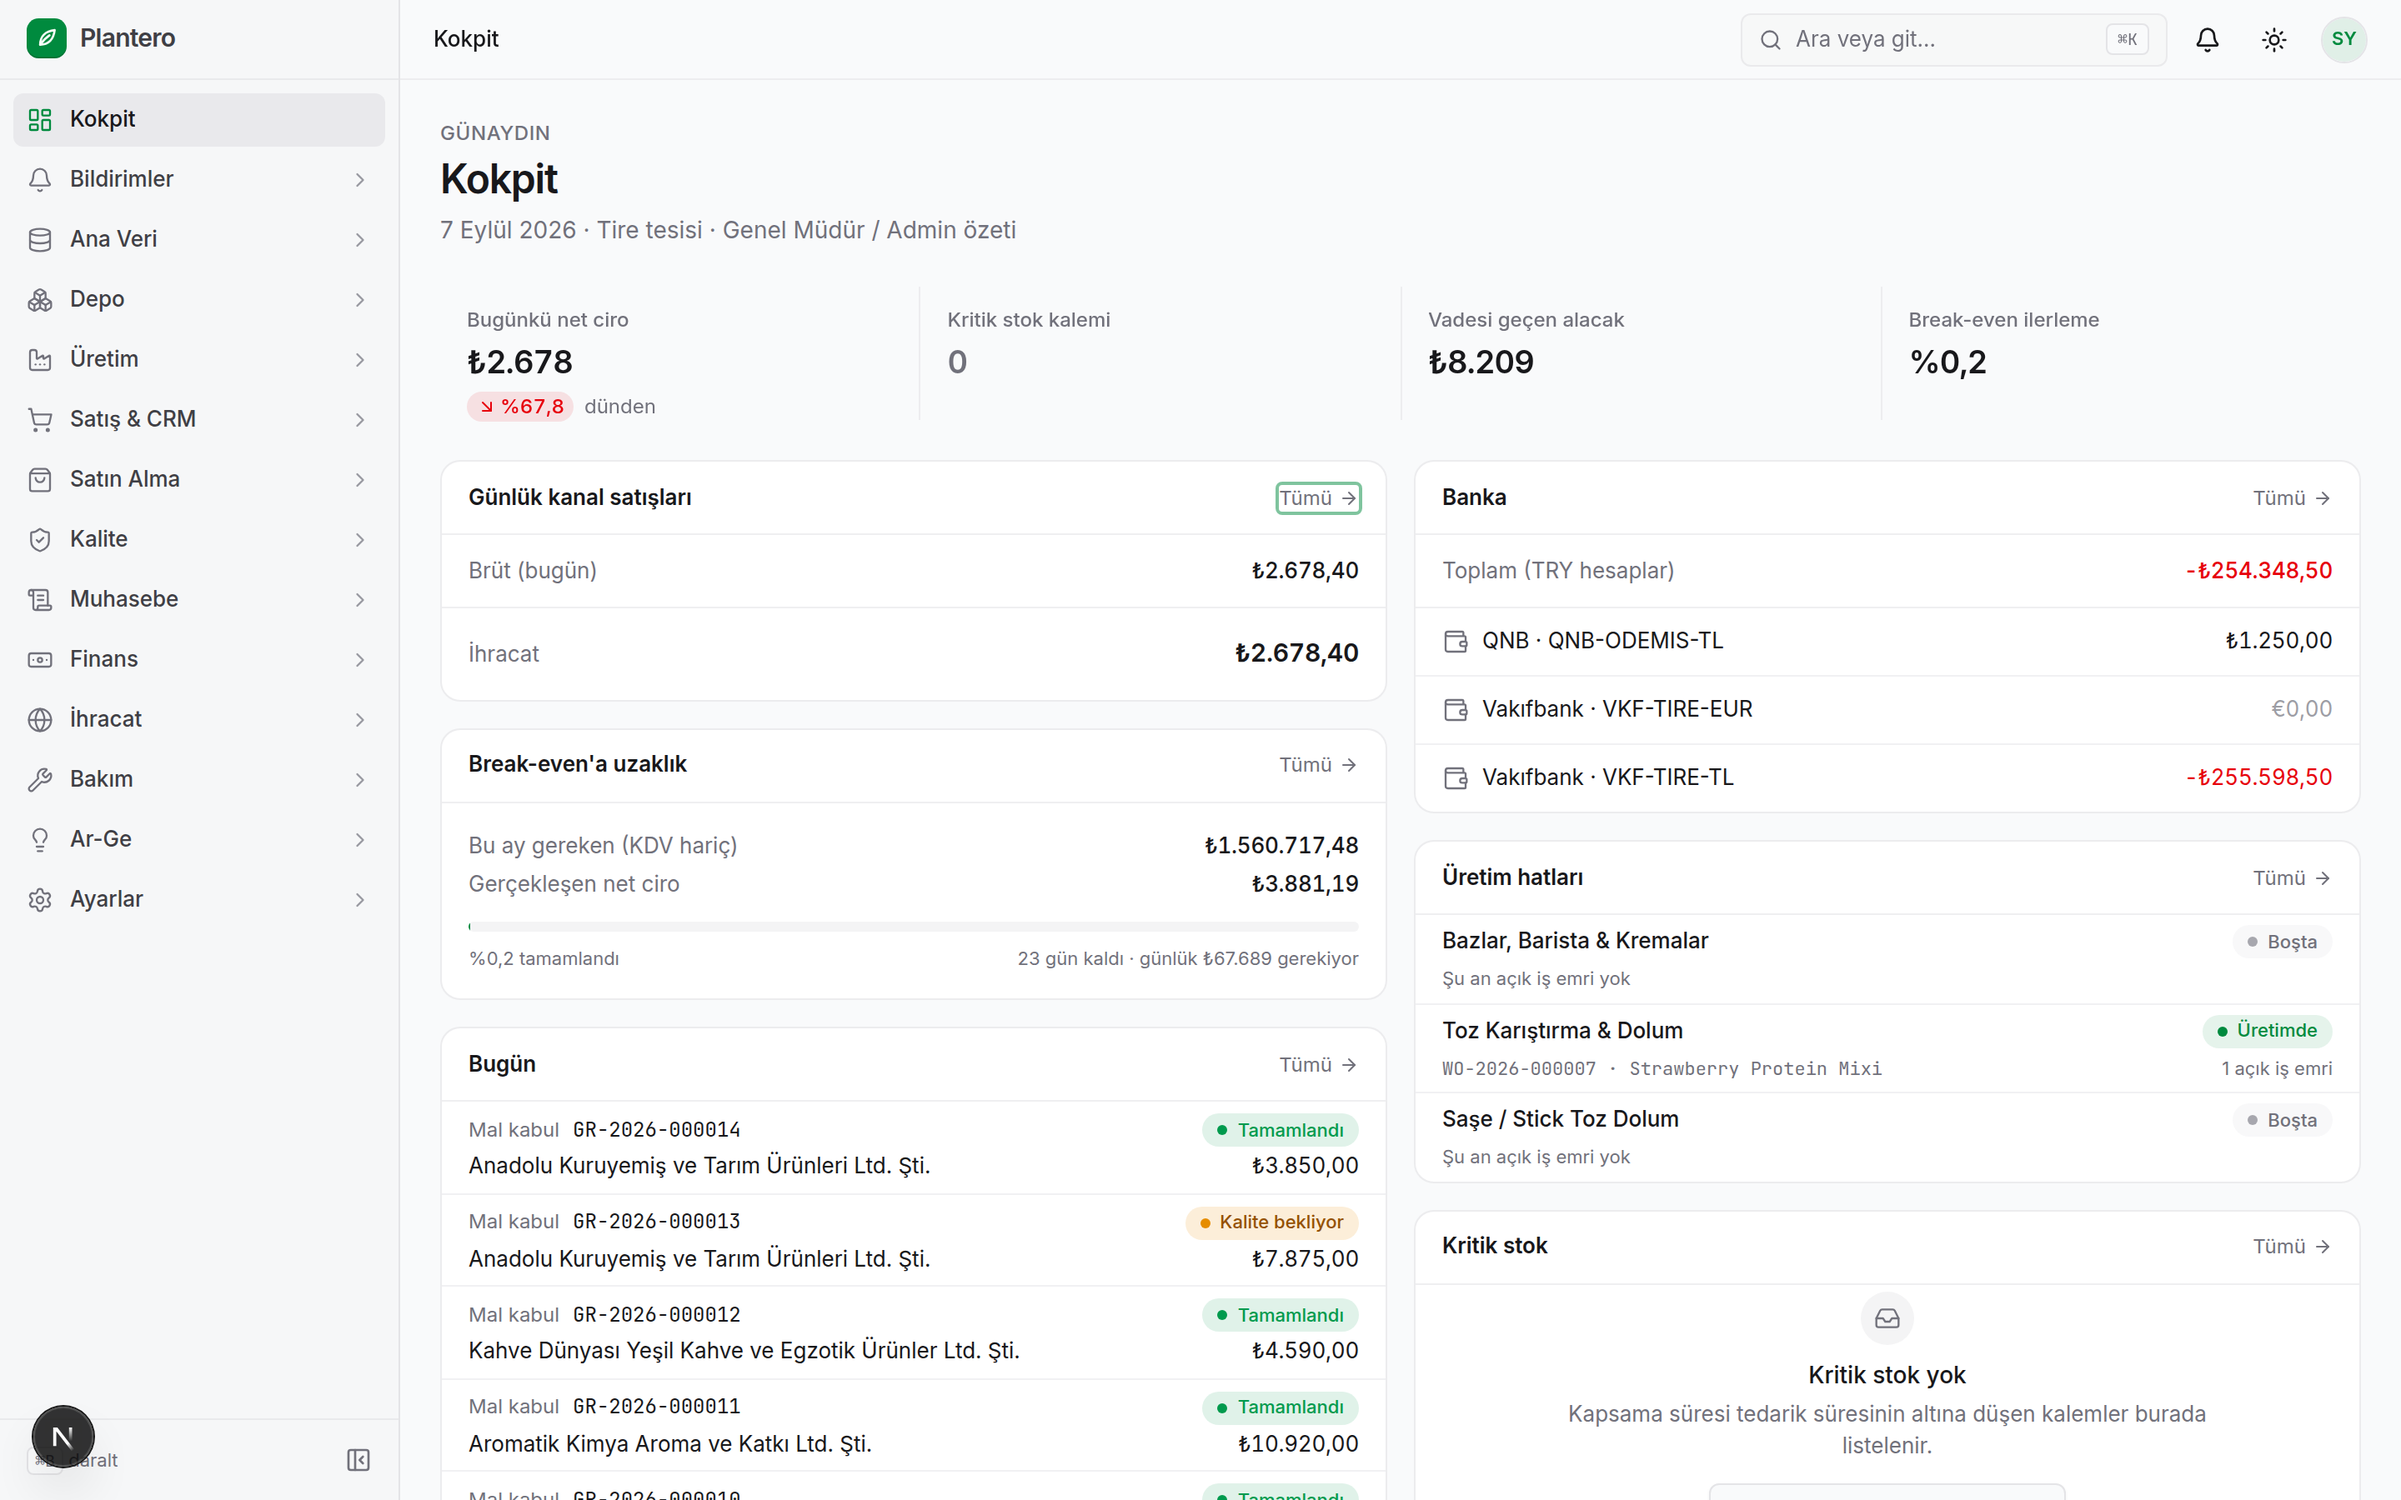
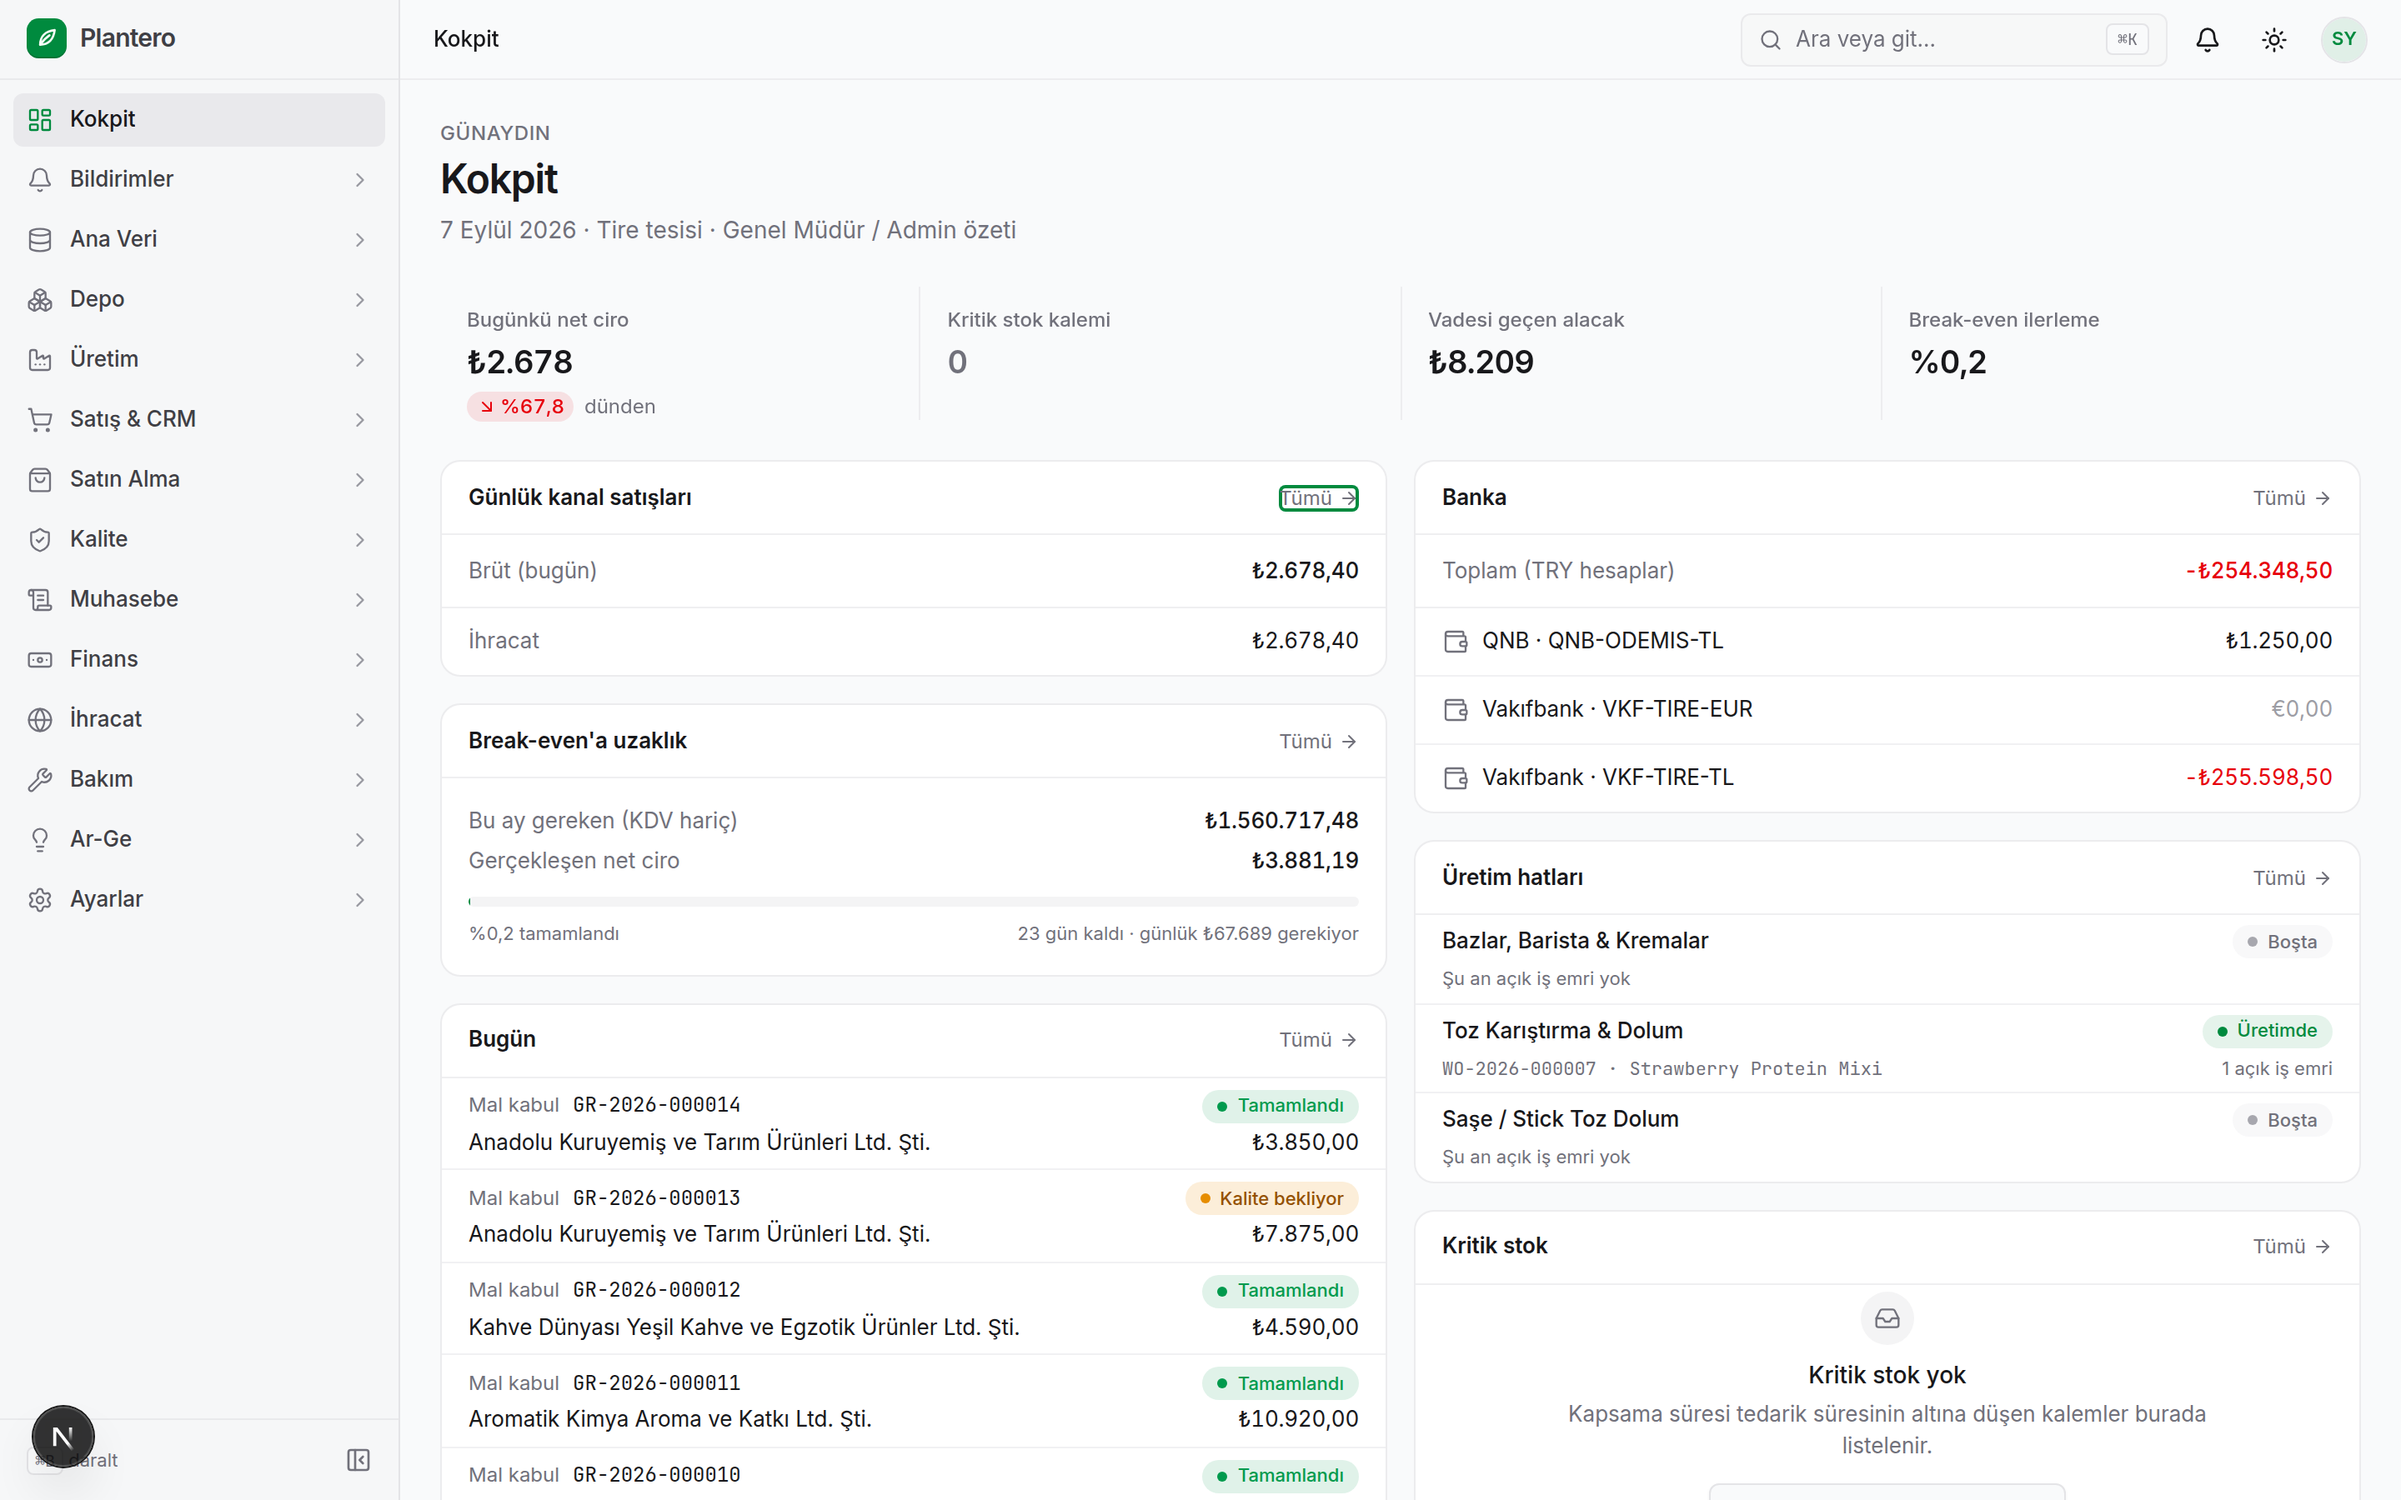
fix(kokpit): Tur 10 puan kartı — P0 recall lot kimliği + P1 kanal satırı kademesi
- packages/core/src/lots/trace.ts, packages/core/src/quality/recall.ts (önceki WIP
  commit'lerde zaten kaydedilmiş, bu commit ile birlikte tur-10 fix seti tamamlanıyor):
  I59 kök neden — RecallImpact['deliveries'] artık gerçekten sevk edilen lotun id'sini
  (`lotId`) taşıyor; initiate() 'delivered' recall_items satırlarını artık bununla
  yazıyor (eskiden sabit impact.lots[0], neredeyse her zaman kök hammadde lotu).
  Regresyon testi: tek hammadde lotundan 2 iş emriyle üretilen 2 mamul lotu 2 ayrı
  irsaliyeyle sevk edilince her recall_items satırı kendi gerçek lotunu taşıyor.

- apps/web/src/modules/kokpit/components/channel-bars.tsx, gm-dashboard.tsx,
  sales-dashboard.tsx, shared.tsx: "Günlük kanal satışları" kartında tek-kanal dalı
  artık çok-kanallı dalla AYNI kademeyi (paylaşılan Row, 13px/400, 40-44px bant)
  kullanıyor — eskiden 15px/600 ile özet satırından (13px/500) daha yüksek sesle
  basılıyordu. p-4 sarmalayıcılar (gm-dashboard + sales-dashboard) kaldırıldı,
  ChannelBars kendi dolgusunu taşıyor. Ayrıca kokpit'in kendi shared.tsx'indeki
  (Section "Tümü" bağlantısı, StatStrip hücresi) odak halkası dili RowLink ile
  hizalandı (18 outline durağından 14'ü ring'e geçti; kalan 4'ü kpi-card.tsx'in
  strip sarmalayıcısı — apps/web/src/components, ortak bileşen, sharedComponentRequests'te).

- artifacts/critic/kokpit.json: kokpit-channel-single-tier-10 kapatıldı (measureAfter
[…]

diff --git a/apps/web/src/modules/kokpit/components/channel-bars.tsx b/apps/web/src/modules/kokpit/components/channel-bars.tsx
@@ -1,5 +1,5 @@
 import { formatMoney } from '@/lib/format';
-import { RankBar } from './shared';
+import { RankBar, Row } from './shared';
 
 /**
  * "Bugünkü kanal satışları" çubukları — tek ölçü (net ciro) kanal bazında sıralanmış yatay çubuklar.
@@ -24,6 +24,17 @@ import { RankBar } from './shared';
  * Kural yalnızca AYNI sütun içindir — KPI şeridindeki (0 ondalık) büyük rakamla bu listenin (2
  * ondalık) arasındaki kademe ayrımı KORUNUR, çünkü onlar ayrı sütunlar/bileşenlerdir. Her iki dal da
  * `digits: 2` kullanır.
+ *
+ * Kök neden (Tur 10 P1 kokpit-channel-single-tier-10, kriter 1): tek-kanal dalı `text-[15px]
+ * font-semibold` (15px/600) basıyordu — AYNI sağ hizalı para sütunundaki özet satır ("Brüt (bugün)",
+ * gm-dashboard.tsx) `13px/500`. Bugünkü veri bu iki değeri BİREBİR eşit kılınca (tek kanal → brüt =
+ * o kanalın net'i) kırılım özetten DAHA YÜKSEK SESLE basılmış oluyordu — hiyerarşi VERİYE göre
+ * tersine dönüyordu. Tek kanal dalı artık çok-kanallı dalla AYNI kademeyi (paylaşılan `Row`, 13px,
+ * font-weight 400 — normal gövde ağırlığı, `font-semibold`/`font-medium` YOK) kullanır: bölüm içi
+ * para düğümleri artık {(13,500 özet), (13,400 kırılım)} kümesine sığar, kırılım hiçbir zaman
+ * özetten büyük/kalın olamaz. `Row` (shared.tsx) aynı zamanda satır bandını da (masaüstü 40px,
+ * mobil ≥44px `max-sm:min-h-11`) garanti eder — üst bileşendeki (`gm-dashboard.tsx`) `p-4` sarmalayıcı
+ * bu bandı bozduğu için kaldırılıp bu bileşenin KENDİ dolgusuna (Row / aşağıdaki `<ul>`) bırakıldı.
  */
 export function ChannelBars({ rows }: { rows: { name: string; net: number }[] }) {
   if (!rows.length) return null;
@@ -35,18 +46,18 @@ export function ChannelBars({ rows }: { rows: { name: string; net: number }[] })
   if (sorted.length === 1) {
     const only = sorted[0]!;
     return (
-      <div className="flex items-baseline justify-between">
-        {/* Kök neden (Tur 2 P2 kokpit-14px-tier-01): tek-kanal etiketi `text-sm` (14px) taşıyordu —
-            çok-kanallı halde AYNI etiket 12px (bkz. aşağıdaki liste `text-xs`); tek satırlık gövde
-            metni için `text-[13px]` (kokpit'in genel gövde kademesi) kullanılır. */}
-        <span className="text-[13px] text-muted-foreground">{only.name}</span>
-        <span className="num text-[15px] font-semibold tabular-nums">{formatMoney(only.net, 'TRY', { digits: 2 })}</span>
-      </div>
+      // Kök neden (Tur 2 P2 kokpit-14px-tier-01, üstteki Tur 10 P1 notuyla güncellendi): tek-kanal
+      // satırı artık çok-kanallı listeyle AYNI paylaşılan `Row` anatomisini (13px, normal ağırlık,
+      // 40/44px bant) kullanır — ayrı bir `flex items-baseline` düzeni değil.
+      <Row>
+        <span className="min-w-0 flex-1 truncate text-muted-foreground">{only.name}</span>
+        <span className="num shrink-0 tabular-nums">{formatMoney(only.net, 'TRY', { digits: 2 })}</span>
+      </Row>
     );
   }
 
   return (
-    <ul className="space-y-2.5">
+    <ul className="space-y-2.5 px-4 py-3">
       {sorted.map((r, i) => (
         <li key={r.name} className="flex items-center gap-3">
           <span className="w-24 shrink-0 truncate text-xs text-muted-foreground">{r.name}</span>

diff --git a/apps/web/src/modules/kokpit/components/shared.tsx b/apps/web/src/modules/kokpit/components/shared.tsx
@@ -20,9 +20,13 @@ export function Section({ title, href, children, className }: { title: string; h
         <h2 className="text-[13px] font-semibold">{title}</h2>
         {href ? (
           // max-md:min-h-11: mobil dokunma hedefi 44px.
+          // Kök neden (Tur 10 P2 kokpit-focus-ring-dialect-10, kriter 8): bu bağlantı hiçbir
+          // focus-visible sınıfı taşımıyordu — tarayıcının varsayılan `outline: auto 1px` halkasına
+          // düşüyordu, aynı ekrandaki `RowLink` (ring-2 inset) ile FARKLI bir odak dili oluşturuyordu.
+          // Artık kokpit'in tek odak dili (`outline-none focus-visible:ring-2 ring-ring ring-inset`).
           <Link
             href={href}
-            className="inline-flex items-center gap-1 max-md:min-h-11 text-xs text-muted-foreground hover:text-foreground active:text-foreground/80"
+            className="inline-flex items-center gap-1 rounded max-md:min-h-11 text-xs text-muted-foreground outline-none hover:text-foreground active:text-foreground/80 focus-visible:ring-2 focus-visible:ring-ring focus-visible:ring-inset"
           >
             Tümü <ArrowRight className="size-3" />
           </Link>
@@ -224,7 +228,9 @@ export function StatStrip({ items, className, divider = true }: { items: StatStr
           </>
         );
         return it.href ? (
-          <Link key={it.key} href={it.href} className="px-2 py-2.5 text-center hover:bg-muted/40 active:bg-muted/60">
+          // Kök neden (Tur 10 P2 kokpit-focus-ring-dialect-10, kriter 8): aynı `RowLink` odak dili
+          // (bkz. üstteki Section "Tümü" notu) — bu hücre de eskiden UA varsayılan outline'ına düşüyordu.
+          <Link key={it.key} href={it.href} className="px-2 py-2.5 text-center outline-none hover:bg-muted/40 active:bg-muted/60 focus-visible:ring-2 focus-visible:ring-ring focus-visible:ring-inset">
             {inner}
           </Link>
         ) : (

diff --git a/apps/web/src/modules/kokpit/components/gm-dashboard.tsx b/apps/web/src/modules/kokpit/components/gm-dashboard.tsx
@@ -51,7 +51,12 @@ export function GmDashboardView({ data, today }: { data: GmDashboard; today: Coc
               sayısını (hedef ≥15) düşürüyordu. Tek bir ikincil sayı için ayrı bir KPI bloğu yerine bu
               bölümün KENDİ Banka/Karantina ile AYNI "başlık altı özet satırı" anatomisi (h-11, 13px,
               muted etiket + MoneyCell) kullanılır — 96px'ten 44px'e iner, sparkline (zaten KPI
-              şeridinde tekrar eden bir görselleştirme değildi ama küçük alanda anlamsızdı) kaldırılır. */}
+              şeridinde tekrar eden bir görselleştirme değildi ama küçük alanda anlamsızdı) kaldırılır.
+              Kök neden (Tur 10 P1 kokpit-channel-single-tier-10): buradaki `<div className="p-4">`
+              sarmalayıcı `ChannelBars`'ın kendi satır bandını (paylaşılan `Row`, 40/44px) BOZUYORDU —
+              tek kanal dalı bu yüzden ayrı/daha büyük bir tipografi kademesine (`text-[15px]
+              font-semibold`) kaçmıştı. `ChannelBars` artık kendi dolgusunu taşıyor (`Row` / `<ul
+              px-4>`), bu sarmalayıcı kaldırıldı. */}
           <div className="flex h-11 items-center justify-between border-b border-border/60 px-4 text-[13px]">
             <span className="text-muted-foreground">Brüt (bugün)</span>
             <MoneyCell value={channelSales.grossTotal} className="font-medium" />
@@ -70,9 +75,7 @@ export function GmDashboardView({ data, today }: { data: GmDashboard; today: Coc
               }
             />
           ) : (
-            <div className="p-4">
-              <ChannelBars rows={channelSales.rows.map((r) => ({ name: r.name, net: Number(r.net) }))} />
-            </div>
+            <ChannelBars rows={channelSales.rows.map((r) => ({ name: r.name, net: Number(r.net) }))} />
           )}
         </Section>
 

diff --git a/apps/web/src/modules/kokpit/components/sales-dashboard.tsx b/apps/web/src/modules/kokpit/components/sales-dashboard.tsx
@@ -64,7 +64,10 @@ export function SalesDashboardView({ data }: { data: SalesCards }) {
             </Section>
           ) : showChannelBreakdown ? (
             <Section title="Kanal ciro (bugün)" href="/satis/net-ciro">
-              <div className="p-4"><ChannelBars rows={data.channelToday.rows.map((r) => ({ name: r.name, net: Number(r.net) }))} /></div>
+              {/* Tur 10 P1 kokpit-channel-single-tier-10 aynı kök nedeni (gm-dashboard.tsx'teki
+                  yorum): `p-4` sarmalayıcı `ChannelBars`'ın kendi satır bandını bozuyordu —
+                  bileşen artık kendi dolgusunu taşıyor. */}
+              <ChannelBars rows={data.channelToday.rows.map((r) => ({ name: r.name, net: Number(r.net) }))} />
             </Section>
           ) : null}
 
